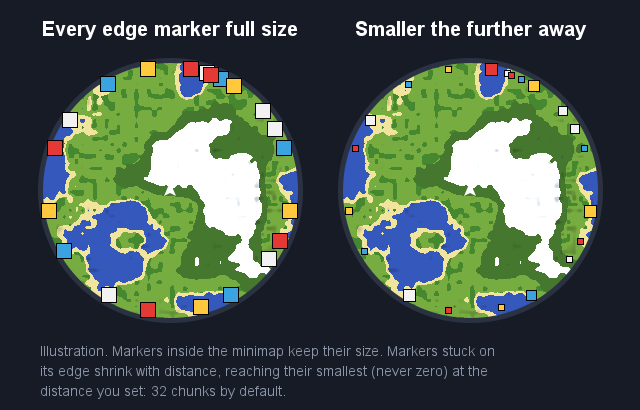
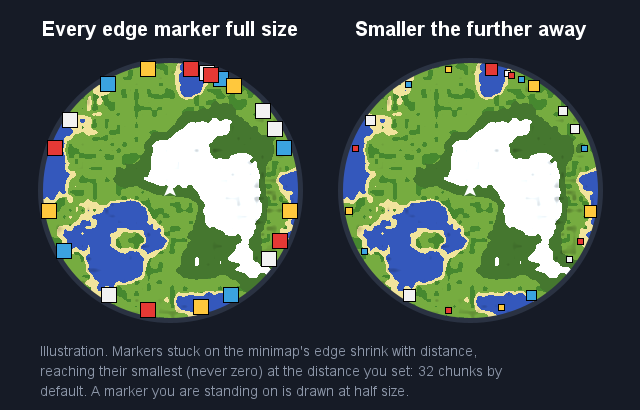
Draw minimap markers at half size when you are standing on them
Markers inside the minimap grow from half size under you to full size
four chunks away, so a marker you walk up to no longer covers what is
around it. Edge markers are unchanged.

Changed region(s): [[0.0625, 0.8488, 0.7812, 0.9659]]

diff --git a/src/main/kotlin/com/skystormer/skysmapexposer/MinimapMarkerElements.kt b/src/main/kotlin/com/skystormer/skysmapexposer/MinimapMarkerElements.kt
@@ -91,7 +91,7 @@ object MinimapMarkerElements {
             val pose = graphics.pose()
             pose.pushPose()
             pose.translate(partialX, partialY, 0.0)
-            val size = if (outOfBounds) edgeScale(pin) else 1f
+            val size = if (outOfBounds) edgeScale(pin) else nearScale(pin)
             pose.scale(scale * size, scale * size, 1f)
             val icon = MarkerElements.iconFor(pin)
             val renderer = context.iconRenderer
@@ -119,6 +119,23 @@ object MinimapMarkerElements {
         val t = (Math.sqrt(dx * dx + dz * dz) / far).coerceIn(0.0, 1.0).toFloat()
         return 1f - t * (1f - SMALLEST)
     }
+
+    /**
+     * How big a marker inside the minimap is drawn: half size when you are standing on it, growing
+     * to full size [NEAR_BLOCKS] away, so a marker you walk up to does not cover what is around it.
+     */
+    fun nearScale(pin: Markers.Pin): Float {
+        val player = Minecraft.getInstance().player ?: return 1f
+        val distance = Math.hypot(pin.x - player.x, pin.z - player.z)
+        val t = (distance / NEAR_BLOCKS).coerceIn(0.0, 1.0).toFloat()
+        return CLOSEST + t * (1f - CLOSEST)
+    }
+
+    /** The size of a marker you are standing on, relative to one further off. */
+    const val CLOSEST = 0.5f
+
+    /** How far away, in blocks, a marker inside the minimap reaches its full size. */
+    const val NEAR_BLOCKS = 64.0
 
     /** The size a far-away marker on the minimap's edge settles at, relative to a near one. */
     const val SMALLEST = 0.35f

diff --git a/README.md b/README.md
@@ -85,7 +85,9 @@ A server can have hundreds of markers. Xaero pins markers that are off the minim
 which can crowd it. Sky's Map Exposer makes those edge markers smaller the further away they
 really are, down to their smallest size at the **Edge markers** distance (32 chunks by default),
 and keeps them that size beyond it, so distant places still show their direction without
-cluttering the edge. Markers inside the minimap keep their full size.
+cluttering the edge. Markers inside the minimap are drawn at half size when you are standing on
+one, growing to full size about 4 chunks away, so a marker you walk up to doesn't cover what is
+around it.
 
 ![A minimap with every edge marker full size, next to one where edge markers shrink the further away they are](docs/minimap-edge.png)
 
